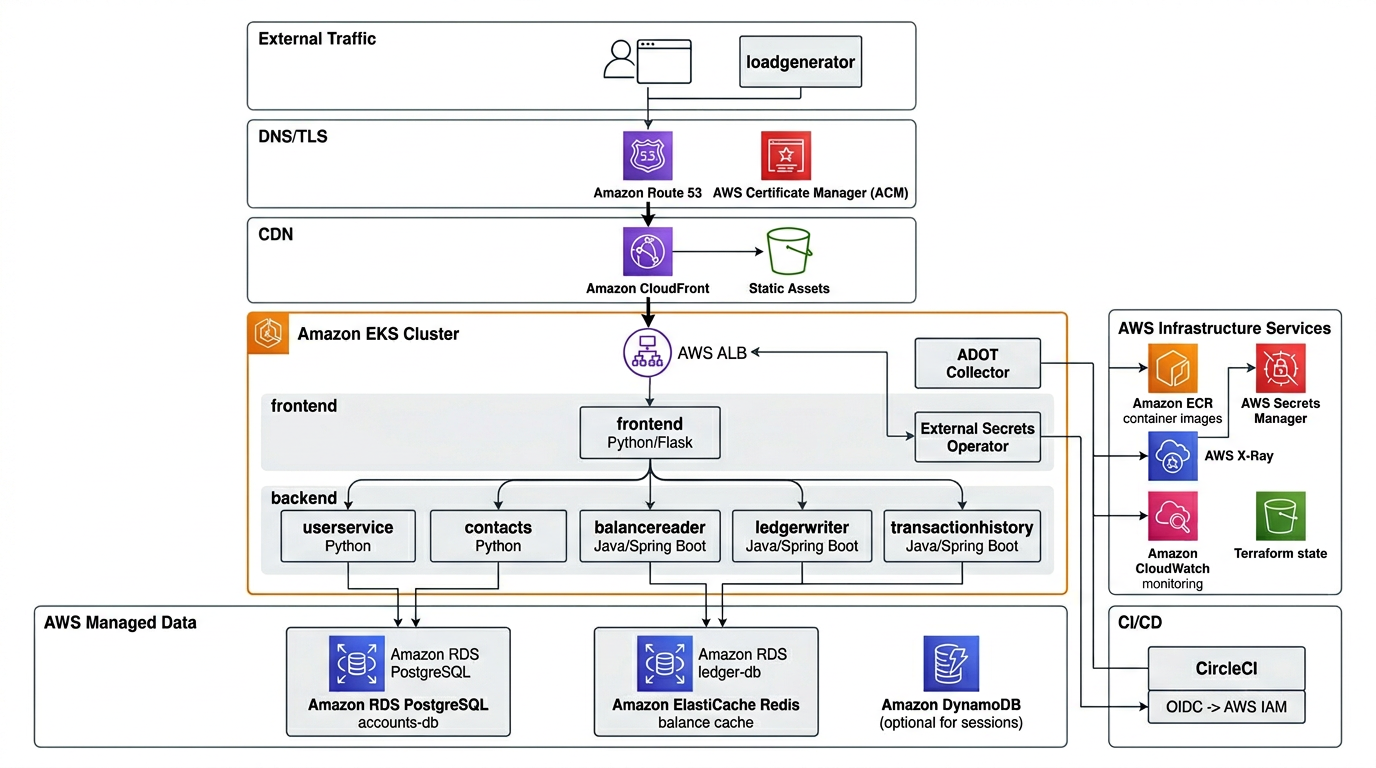
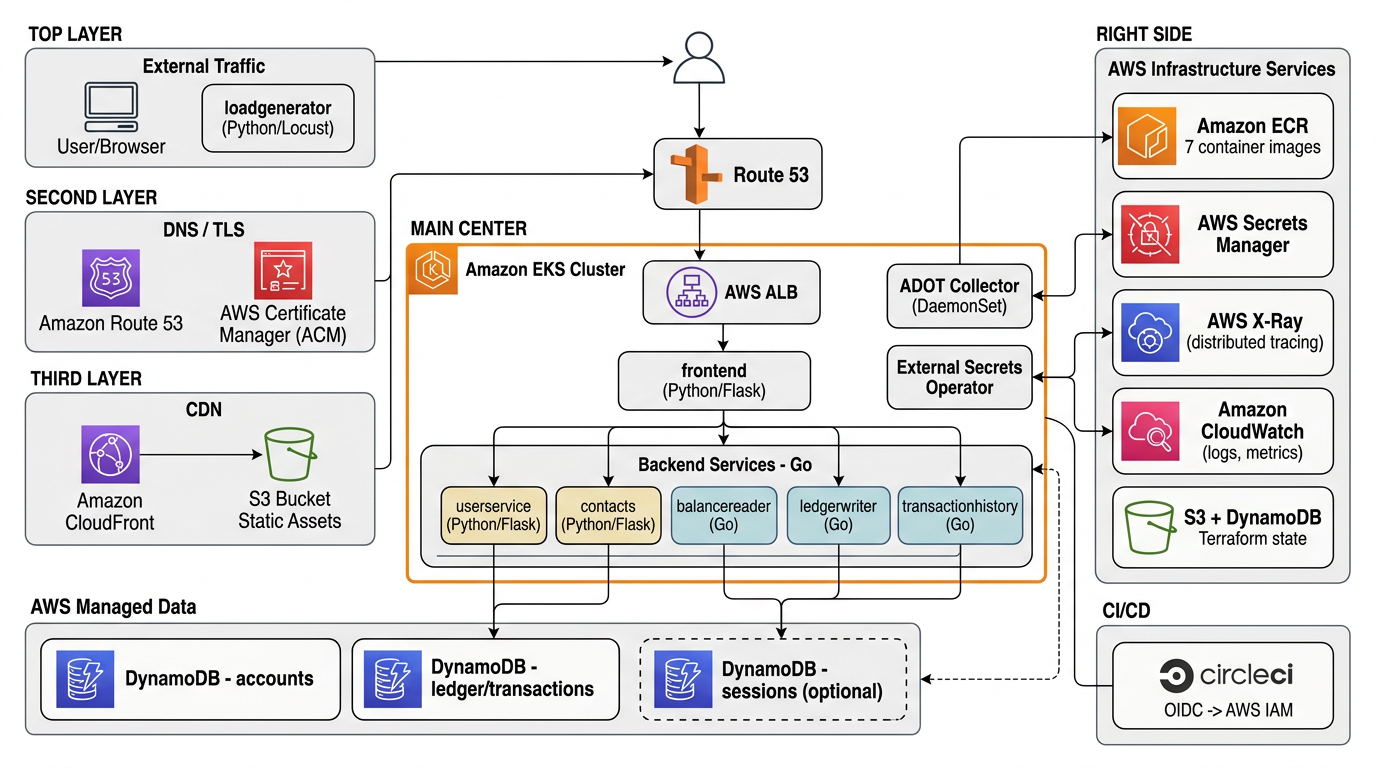
updated docs

diff --git a/docs/proposed-architecture.md b/docs/proposed-architecture.md
@@ -30,12 +30,12 @@ flowchart TB
             Frontend["frontend\n(Python / Flask)\nstandard Deployment"]
         end
 
-        subgraph backend_tier [Backend Services]
+        subgraph backend_tier [Backend Services - Go]
             UserSvc["userservice\n(Python / Flask)"]
             Contacts["contacts\n(Python / Flask)"]
-            BalReader["balancereader\n(Java 17 / Spring Boot)"]
-            LedWriter["ledgerwriter\n(Java 17 / Spring Boot)"]
-            TxHistory["transactionhistory\n(Java 17 / Spring Boot)"]
+            BalReader["balancereader\n(Go)"]
+            LedWriter["ledgerwriter\n(Go)"]
+            TxHistory["transactionhistory\n(Go)"]
         end
 
         ADOT["ADOT Collector\n(DaemonSet)"]
@@ -43,15 +43,14 @@ flowchart TB
     end
 
     subgraph aws_data [AWS Managed Data]
-        RDS_Accounts["Amazon RDS PostgreSQL\n(accounts-db)"]
-        RDS_Ledger["Amazon RDS PostgreSQL\n(ledger-db)"]
-        Redis["Amazon ElastiCache\n(Redis - balance cache)"]
-        DDB["Amazon DynamoDB\n(sessions / feature flags)\n-- optional --"]
+        DDB_Accounts["Amazon DynamoDB\n(accounts)"]
+        DDB_Ledger["Amazon DynamoDB\n(ledger / transactions)"]
+        DDB_Sessions["Amazon DynamoDB\n(sessions / feature flags)\n-- optional --"]
     end
 
     subgraph aws_infra [AWS Infrastructure Services]
-        ECR["Amazon ECR\n(9 container images)"]
-        SM["AWS Secrets Manager\n(DB creds, JWT keys)"]
+        ECR["Amazon ECR\n(8 container images)"]
+        SM["AWS Secrets Manager\n(JWT keys, API keys)"]
         XRay["AWS X-Ray\n(distributed tracing)"]
         CW["Amazon CloudWatch\n(logs, metrics, insights)"]
         S3State["S3 + DynamoDB\n(Terraform state)"]
@@ -76,15 +75,15 @@ flowchart TB
     Frontend --> LedWriter
     Frontend --> TxHistory
 
-    UserSvc --> RDS_Accounts
-    Contacts --> RDS_Accounts
-    BalReader --> RDS_Ledger
-    LedWriter --> RDS_Ledger
-    TxHistory --> RDS_Ledger
+    UserSvc --> DDB_Accounts
+    Contacts --> DDB_Accounts
+    BalReader --> DDB_Ledger
+    LedWriter --> DDB_Ledger
+    TxHistory --> DDB_Ledger
 
-    BalReader --> Redis
+    BalReader -.-> DDB_Ledger
 
-    Frontend -.-> DDB
+    Frontend -.-> DDB_Sessions
 
     ESO --> SM
     ADOT --> XRay
@@ -97,23 +96,102 @@ flowchart TB
 
 ---
 
+## Why Go Over Java/OpenJDK
+
+The current backend services (balancereader, ledgerwriter, transactionhistory) run on Java 17 / Spring Boot with OpenJDK and are built with Jib. Rewriting them in Go provides significant advantages for a containerized microservices showcase:
+
+| Aspect | Java 17 / Spring Boot | Go |
+|--------|----------------------|-----|
+| **Container image size** | ~200-300 MB (JRE + fat JAR) | ~10-20 MB (static binary, scratch/distroless) |
+| **Cold start time** | 3-8 seconds (JVM warmup) | 10-50 milliseconds |
+| **Memory at idle** | 256-512 MB (JVM heap) | 10-30 MB |
+| **Build tooling** | Maven + Jib (no Dockerfile) | Multi-stage Dockerfile (simple, no plugins) |
+| **Concurrency** | Thread pools | Goroutines (lightweight, millions possible) |
+| **Dependencies** | Large transitive dependency trees | Minimal, statically linked |
+| **k8s resource requests** | cpu: 200m, memory: 512Mi typical | cpu: 50m, memory: 64Mi typical |
+
+This means lower EKS node costs, faster scaling, faster CI builds, and a cleaner monorepo structure. The Python services (frontend, userservice, contacts) stay as-is, showcasing a polyglot monorepo with Python + Go.
+
+### Build Method Changes
+
+| Service | Current | Proposed |
+|---------|---------|----------|
+| `balancereader` | Java 17 / Jib (no Dockerfile) | Go / multi-stage Dockerfile |
+| `ledgerwriter` | Java 17 / Jib (no Dockerfile) | Go / multi-stage Dockerfile |
+| `transactionhistory` | Java 17 / Jib (no Dockerfile) | Go / multi-stage Dockerfile |
+| `frontend` | Python 3.10 / Dockerfile | No change |
+| `userservice` | Python 3.10 / Dockerfile | No change |
+| `contacts` | Python 3.10 / Dockerfile | No change |
+| `loadgenerator` | Python 3.10 / Dockerfile | No change |
+| `accounts-db` | PostgreSQL 14 / Dockerfile | Removed (replaced by DynamoDB) |
+| `ledger-db` | PostgreSQL 14 / Dockerfile | Removed (replaced by DynamoDB) |
+
+Total images: 9 currently, 7 after migration (database containers eliminated).
+
+---
+
+## Why DynamoDB Over RDS PostgreSQL
+
+The current databases run as PostgreSQL StatefulSets with `emptyDir` storage (data lost on every pod restart). Rather than replacing them with always-on RDS instances, DynamoDB provides a serverless, zero-maintenance alternative at a fraction of the cost.
+
+### Cost Comparison (demo/showcase workload)
+
+| Option | Monthly Cost | Maintenance | Scales to Zero |
+|--------|-------------|-------------|----------------|
+| **RDS PostgreSQL** (db.t4g.micro) | ~$30-60/mo (always-on) | Patching, backups, sizing | No |
+| **Aurora Serverless v2** | ~$43/mo minimum (0.5 ACU floor) | Less, but still provisioned | No (scales down, not off) |
+| **DocumentDB** | ~$57/mo minimum | Similar to RDS | No |
+| **DynamoDB (pay-per-request)** | ~$0-5/mo for demo traffic | None | Yes |
+
+DynamoDB is the only option that truly scales to zero cost when idle, which is ideal for a showcase application.
+
+### Data Model Redesign
+
+The banking app has two logical databases that map naturally to DynamoDB tables:
+
+**Accounts domain** (currently `accounts-db`):
+
+| Table | Partition Key | Sort Key | Access Patterns |
+|-------|--------------|----------|-----------------|
+| `Users` | `userId` | -- | Get/create user, authenticate |
+| `Contacts` | `userId` | `contactId` | List contacts for user, add/remove |
+
+**Ledger domain** (currently `ledger-db`):
+
+| Table | Partition Key | Sort Key | Access Patterns |
+|-------|--------------|----------|-----------------|
+| `Transactions` | `accountId` | `timestamp#txnId` | List transactions by account (sorted by time) |
+| `Balances` | `accountId` | -- | Get current balance (updated via DynamoDB transactions) |
+
+DynamoDB transactions ensure that balance updates and transaction records are written atomically, preserving the consistency guarantees the banking app requires.
+
+### What This Eliminates
+
+- Two PostgreSQL StatefulSets (accounts-db, ledger-db)
+- Two database container images (accounts-db, ledger-db Dockerfiles)
+- Database credentials in ConfigMaps/Secrets (DynamoDB uses IAM roles)
+- Connection string management (services use AWS SDK with IAM auth)
+- ElastiCache Redis for balance caching (DynamoDB DAX or single-digit-ms reads replace this)
+
+---
+
 ## Proposed CI/CD Pipeline
 
 ```mermaid
 flowchart TD
     subgraph lint [Lint - parallel, no deps]
-        JavaLint["java-checkstyle\n(JDK 17, Maven)"]
+        GoLint["go-vet + staticcheck\n(Go services)"]
         PyLint["python-checkstyle\n(Python 3.8, pylint)"]
     end
 
     subgraph test [Test - parallel, no deps]
-        JavaTest["java-test-and-code-cov\n(JDK 17, Maven + JUnit)"]
+        GoTest["go-test\n(Go services, go test ./...)"]
         PyTest["python-test\n(pytest, sequential)"]
         PyTestPar["python-test-parallel\n(pytest, parallelism: 2)"]
     end
 
     subgraph build [Build]
-        BuildPush["Skaffold build + push\n(CircleCI OIDC -> ECR)"]
+        BuildPush["Skaffold build + push\n(CircleCI OIDC -> ECR)\n7 images"]
     end
 
     subgraph deployDev [Deploy Dev]
@@ -129,7 +207,7 @@ flowchart TD
     end
 
     BuildPush --> DeployDev
-    JavaTest --> DeployDev
+    GoTest --> DeployDev
     PyTest --> DeployDev
 
     DeployDev --> E2E
@@ -138,8 +216,8 @@ flowchart TD
 
 ### Infrastructure Dependencies Per Stage
 
-- **Build** -- CircleCI OIDC assumes an IAM role with ECR push permissions; Skaffold builds all 9 images and pushes to ECR with git SHA tags
-- **Deploy Dev** -- CircleCI OIDC assumes an IAM role with EKS access; `aws eks update-kubeconfig` configures kubectl; Skaffold deploy applies manifests; `kubectl rollout status` confirms health
+- **Build** -- CircleCI OIDC assumes an IAM role with ECR push permissions; Skaffold builds 7 images (3 Go, 3 Python, 1 loadgenerator) and pushes to ECR with git SHA tags
+- **Deploy Dev** -- CircleCI OIDC assumes an IAM role with EKS + DynamoDB access; `aws eks update-kubeconfig` configures kubectl; Skaffold deploy applies manifests; `kubectl rollout status` confirms health
 - **E2E** -- Cypress runs against the ALB endpoint (Route 53 DNS name)
 - **Deploy Prod** -- Same as Dev but uses a separate IAM role / context and only runs on `main` branch
 
@@ -155,40 +233,54 @@ flowchart TD
 | **TLS** | Manual / Istio | AWS Certificate Manager (free, auto-renewing) |
 | **DNS** | `*.circleci-fieldeng.com` | Amazon Route 53 |
 | **Frontend deploy strategy** | Argo Rollout (canary) | Standard Deployment (rolling update) |
-| **accounts-db** | PostgreSQL StatefulSet (emptyDir -- ephemeral!) | Amazon RDS PostgreSQL (persistent, managed) |
-| **ledger-db** | PostgreSQL StatefulSet (emptyDir -- ephemeral!) | Amazon RDS PostgreSQL (persistent, managed) |
-| **Balance cache** | In-memory (lost on restart) | Amazon ElastiCache Redis (shared, persistent) |
-| **Sessions / config** | None | Amazon DynamoDB (optional) |
+| **Backend language** | Java 17 / Spring Boot (OpenJDK) | Go (static binaries, ~15 MB images) |
+| **Backend build** | Jib (Maven plugin, no Dockerfile) | Multi-stage Dockerfile (simple, reproducible) |
+| **accounts-db** | PostgreSQL StatefulSet (emptyDir -- ephemeral!) | Amazon DynamoDB (serverless, pay-per-request) |
+| **ledger-db** | PostgreSQL StatefulSet (emptyDir -- ephemeral!) | Amazon DynamoDB (serverless, pay-per-request) |
+| **Balance cache** | In-memory (lost on restart) | DynamoDB DAX or native single-digit-ms reads |
+| **Sessions / config** | None | Amazon DynamoDB (optional, same table) |
 | **Static assets** | Served by frontend pod | S3 + CloudFront |
 | **Secrets** | Vault on CERA + plaintext ConfigMaps | AWS Secrets Manager + External Secrets Operator |
 | **Tracing** | Jaeger on CERA | AWS X-Ray via ADOT Collector |
 | **Monitoring** | None explicit | CloudWatch Container Insights |
 | **CI/CD auth** | Vault OIDC | CircleCI OIDC -> AWS IAM |
 | **IaC state** | None | S3 + DynamoDB (Terraform) |
+| **DB credentials** | Plaintext in ConfigMaps | IAM role-based auth (no credentials) |
+| **Container image count** | 9 | 7 (database containers eliminated) |
 | **Multi-region strategy** | Matrix per CERA region (emea, namer) | Single cluster (configurable via pipeline params) |
 
 ---
 
 ## Effort Tiers
 
-### Infra-only (no app code changes)
+### Tier 1: Infrastructure (no app code changes)
 
-- **EKS, ECR, ALB, ACM, Route 53** -- core platform, already planned
-- **Amazon RDS PostgreSQL** -- replace in-cluster StatefulSets; only connection string env vars change
-- **AWS Secrets Manager + External Secrets Operator** -- inject secrets into k8s, remove plaintext ConfigMaps
+- **EKS, ECR, ALB, ACM, Route 53** -- core platform
+- **DynamoDB tables** -- provision via Terraform (Users, Contacts, Transactions, Balances)
+- **AWS Secrets Manager + External Secrets Operator** -- JWT keys and any API keys
 - **CloudWatch Container Insights** -- install EKS addon
 - **S3 + DynamoDB for Terraform state** -- backend configuration
+- **IAM roles** -- EKS pod roles with DynamoDB access, CircleCI OIDC role
 
-### Minor app code changes
+### Tier 2: Backend service rewrite (Java -> Go)
 
-- **Amazon ElastiCache Redis** -- update `balancereader` cache config to use Redis instead of in-memory (`CACHE_SIZE` env var)
-- **AWS X-Ray via ADOT Collector** -- swap OTEL exporter endpoint from Jaeger to ADOT DaemonSet; add X-Ray propagator
-- **CloudFront + S3 for static assets** -- extract CSS/JS/images from frontend container, serve from S3
+- **balancereader** -- rewrite in Go with AWS SDK for DynamoDB reads
+- **ledgerwriter** -- rewrite in Go with DynamoDB transactional writes
+- **transactionhistory** -- rewrite in Go with DynamoDB query by account
+- **Multi-stage Dockerfiles** -- replace Jib, target `scratch` or `gcr.io/distroless/static`
+- **CI pipeline** -- replace `java-checkstyle` / `java-test-and-code-cov` with `go-vet` / `go-test`
 
-### Optional / future (larger scope)
+### Tier 3: Python service updates
 
-- **Amazon DynamoDB for sessions / feature flags** -- requires adding session middleware to the frontend Flask app
-- **CloudFront + S3** -- can be deferred if frontend pod performance is acceptable
+- **userservice** -- update data access from PostgreSQL to DynamoDB (boto3)
+- **contacts** -- update data access from PostgreSQL to DynamoDB (boto3)
+- **frontend** -- update connection config, remove DB connection string env vars
+- **Remove accounts-db and ledger-db** -- delete StatefulSets, Dockerfiles, init scripts
+
+### Tier 4: Observability and CDN (optional)
+
+- **AWS X-Ray via ADOT Collector** -- swap OTEL exporter to ADOT DaemonSet
+- **CloudFront + S3 for static assets** -- extract CSS/JS/images from frontend container
 
 ---
 
@@ -197,17 +289,16 @@ flowchart TD
 | AWS Service | Purpose | Required? |
 |-------------|---------|-----------|
 | Amazon EKS | Run microservices | Yes |
-| Amazon ECR | Container image registry | Yes |
+| Amazon ECR | Container image registry (7 images) | Yes |
 | AWS ALB + LB Controller | Ingress and traffic routing | Yes |
-| Amazon RDS PostgreSQL | Managed databases (accounts-db, ledger-db) | Yes |
-| AWS Secrets Manager | Store DB creds, JWT keys, API keys | Yes |
+| Amazon DynamoDB | All data storage (accounts, ledger, transactions, balances) | Yes |
+| AWS Secrets Manager | Store JWT keys, API keys | Yes |
 | External Secrets Operator | Sync Secrets Manager into k8s Secrets | Yes |
 | AWS Certificate Manager | TLS certificates for ALB | Yes |
 | Amazon Route 53 | DNS management | Yes |
-| CircleCI OIDC + AWS IAM | CI/CD authentication | Yes |
+| CircleCI OIDC + AWS IAM | CI/CD authentication + DynamoDB pod access | Yes |
 | Amazon CloudWatch | Logs, metrics, container insights | Yes |
 | S3 (Terraform state) | IaC state backend | Yes |
 | AWS X-Ray + ADOT | Distributed tracing | Recommended |
-| Amazon ElastiCache Redis | Shared balance cache | Recommended |
 | Amazon CloudFront + S3 | Static asset CDN | Optional |
-| Amazon DynamoDB | Sessions, feature flags | Optional |
+| Amazon DynamoDB DAX | Microsecond-latency cache for balance reads | Optional |
